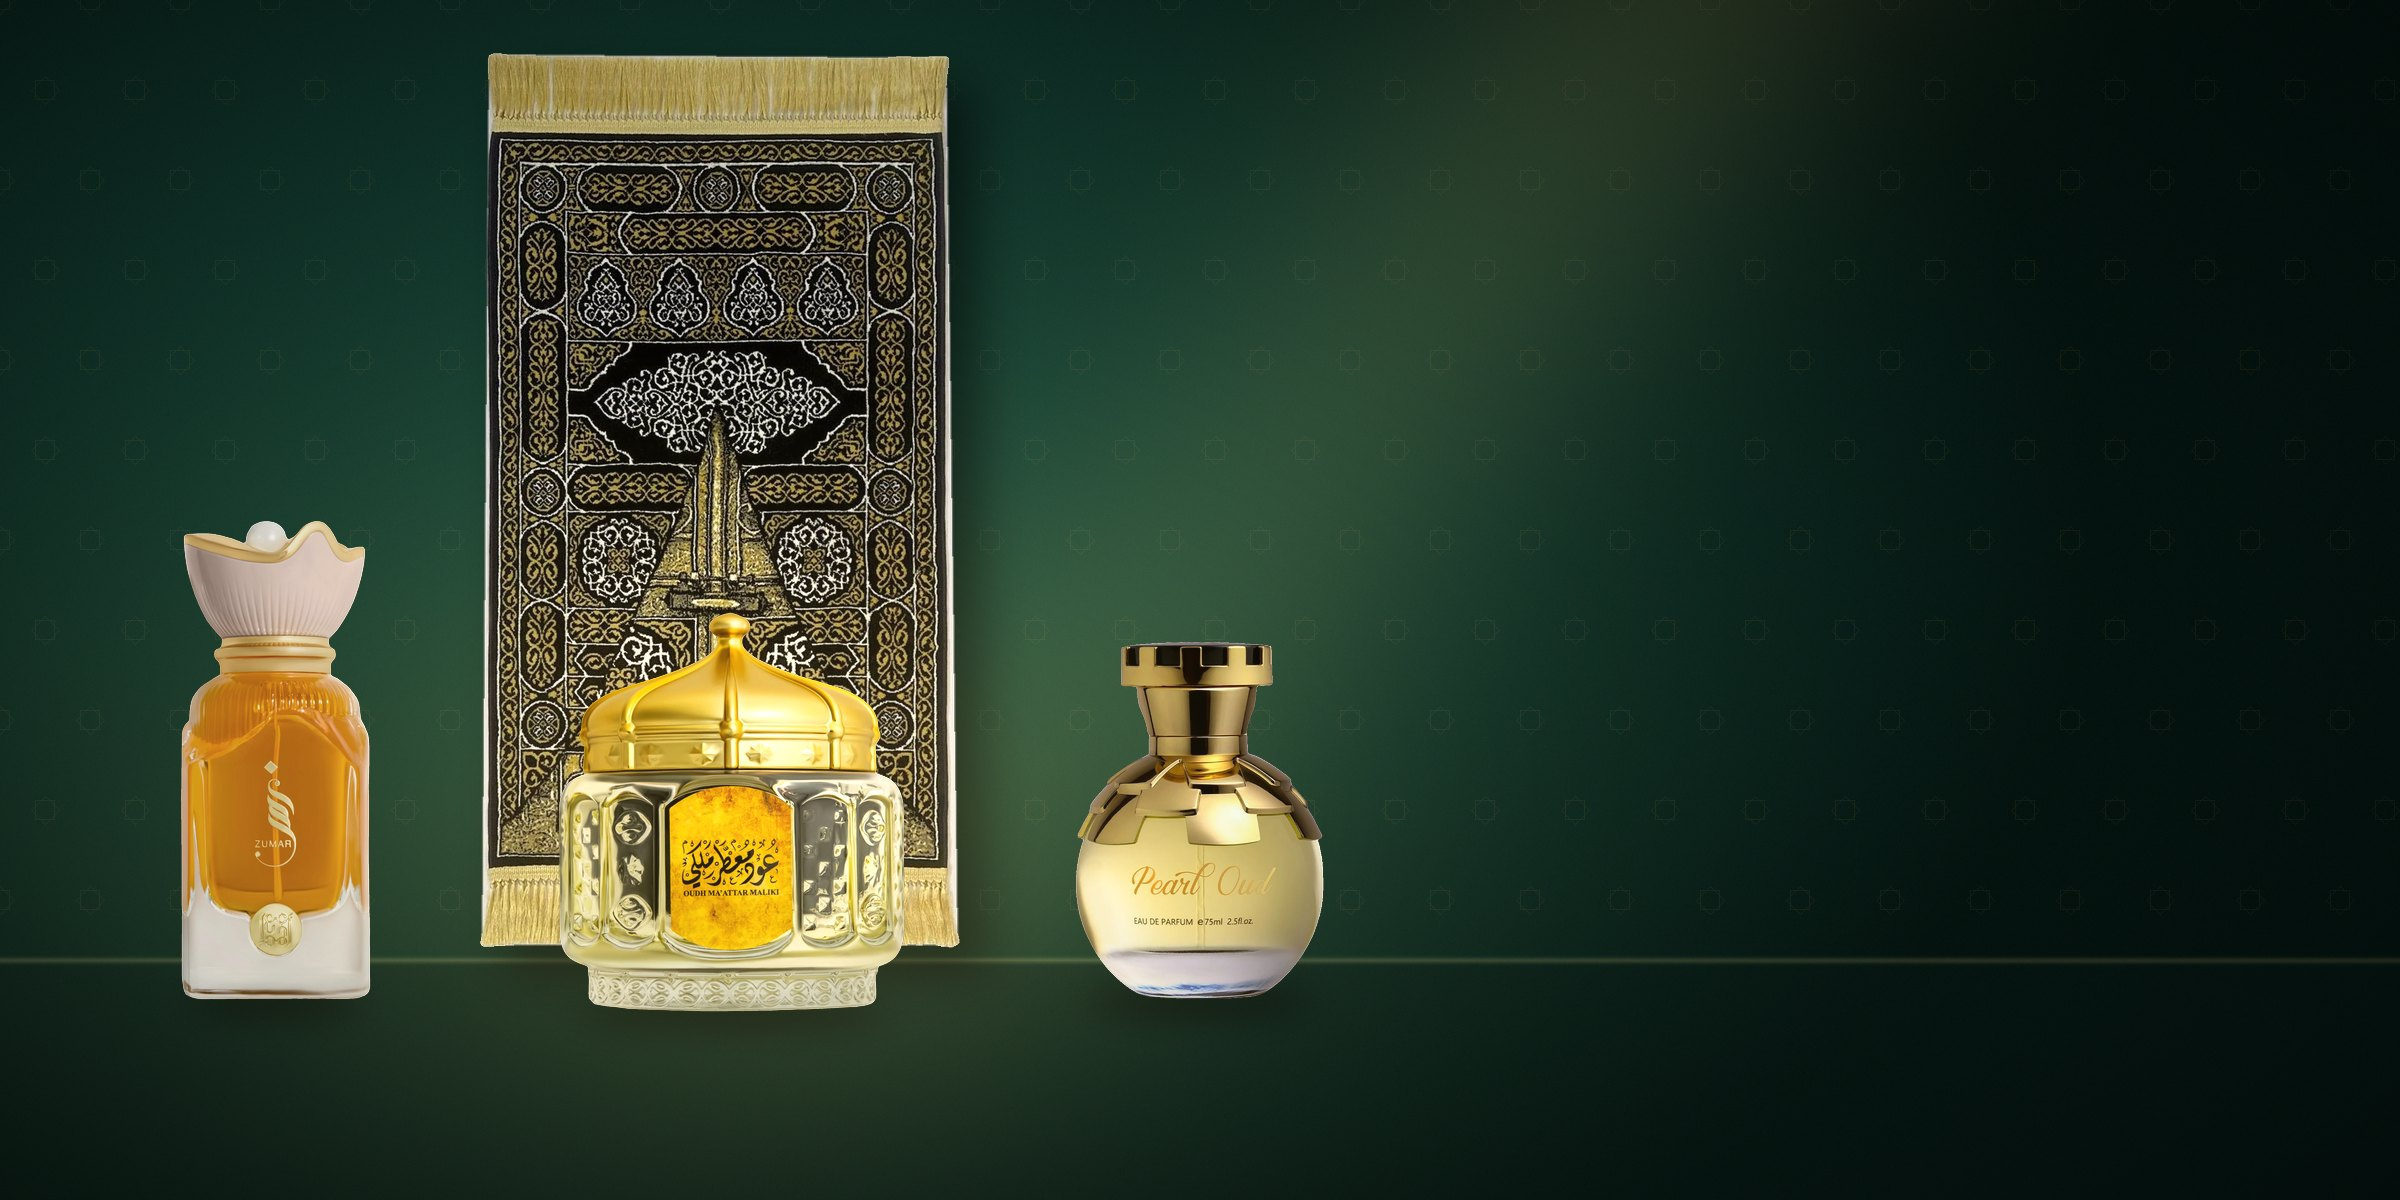
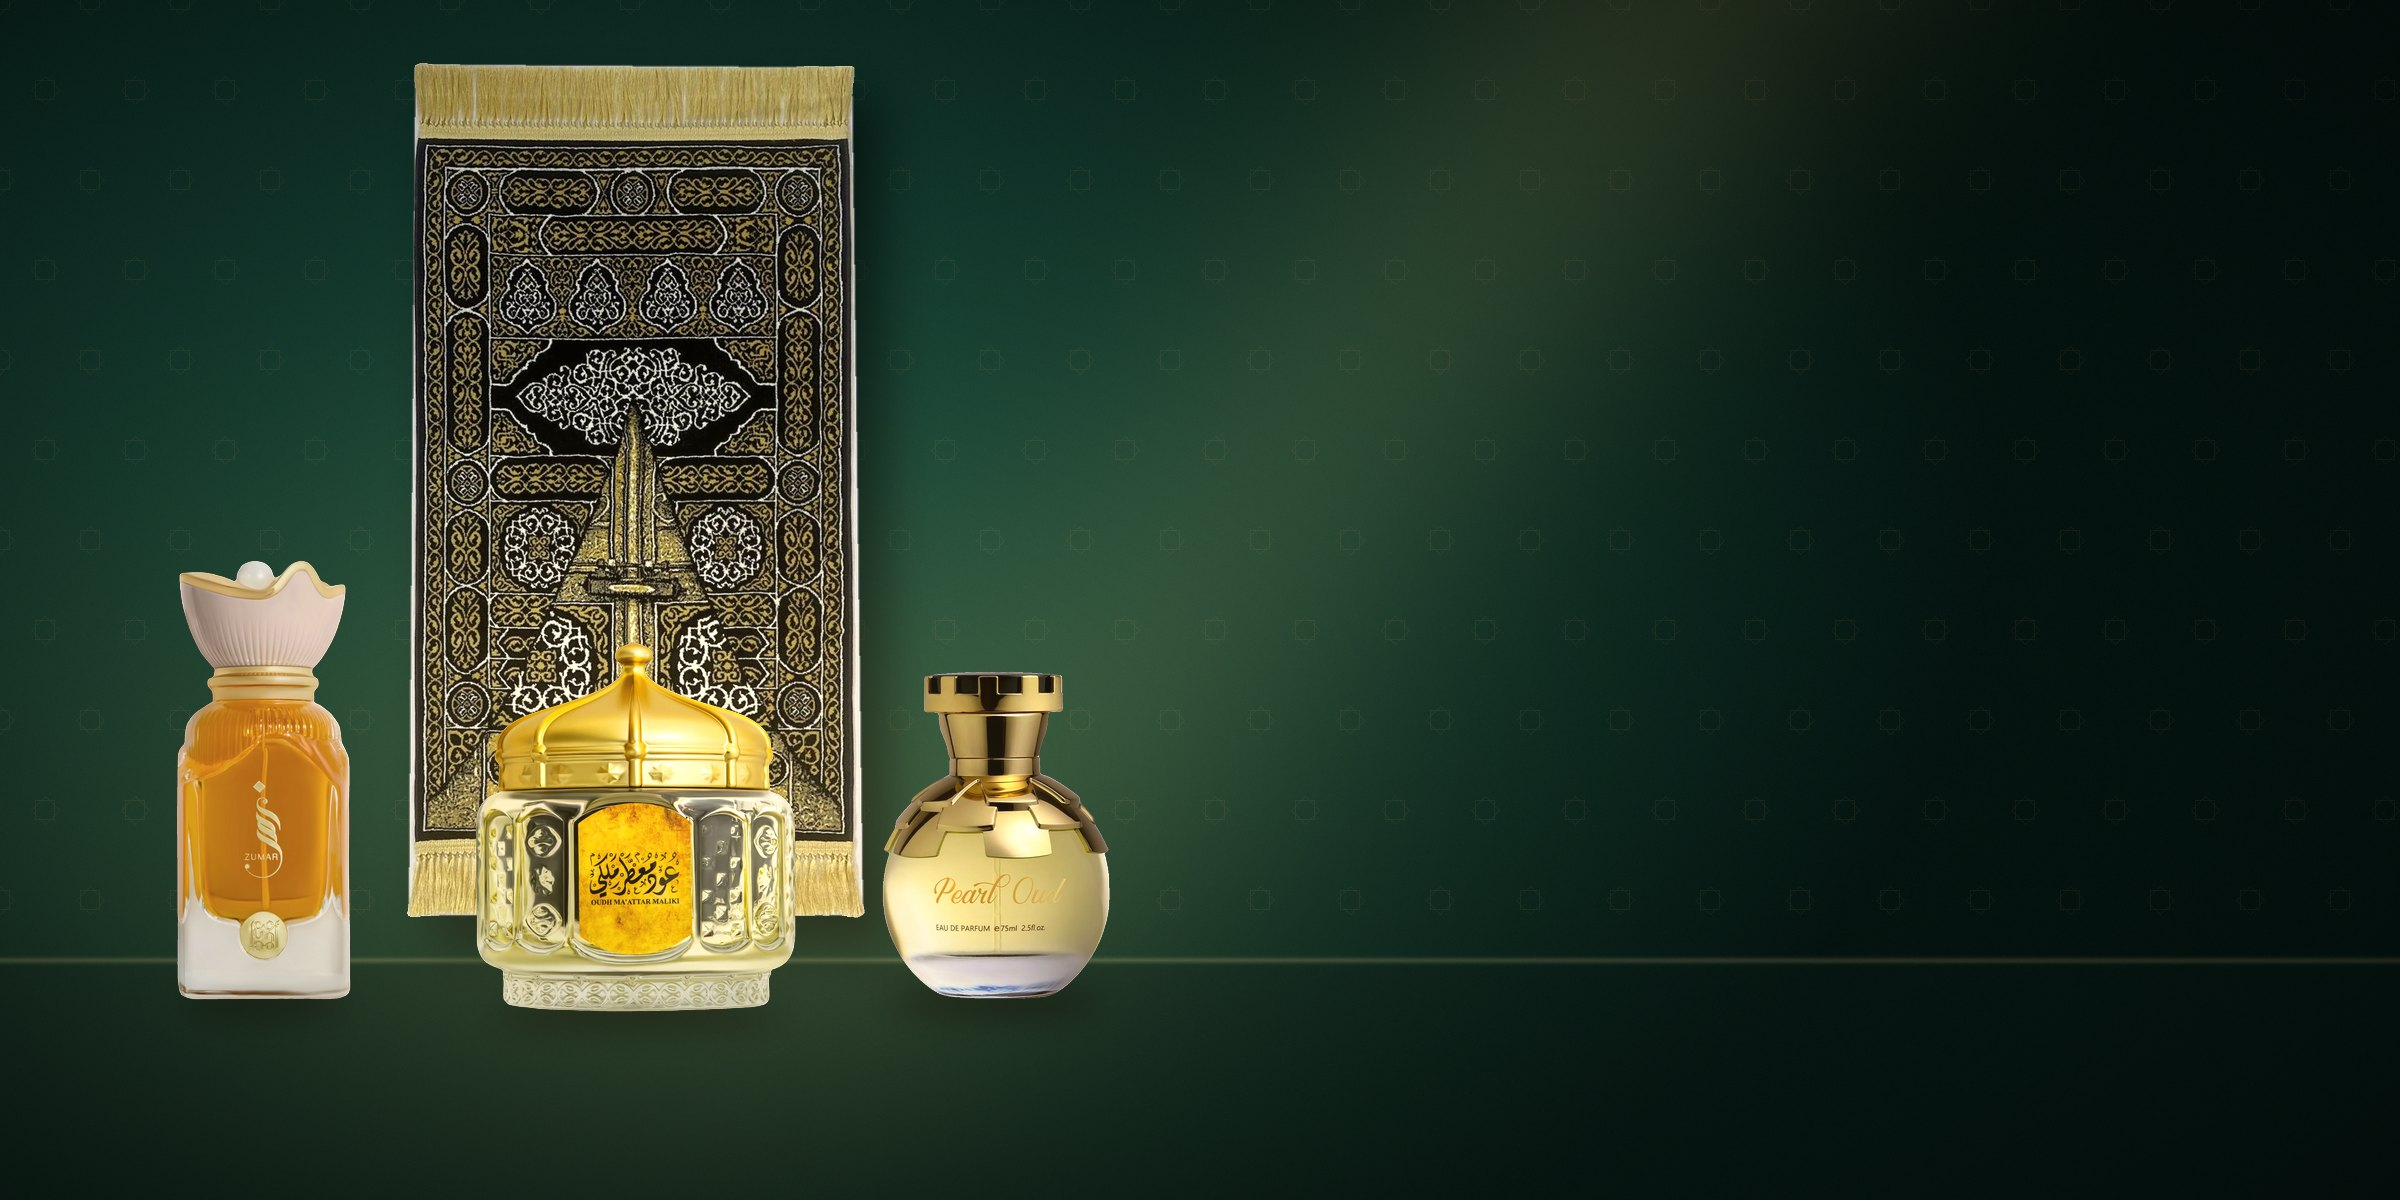
Hero: products further right so the headline and buttons stay clear; FAQ answer describes the marketplace
Claude-Session: https://claude.ai/code/session_01Fn3RxxeERW6SdmNKzfKFSz

Changed region(s): [[0.0625, 0.0308, 0.5625, 0.8633]]

diff --git a/src/lib/i18n.tsx b/src/lib/i18n.tsx
@@ -446,7 +446,7 @@ const en = {
   pfaq5q: 'Who prepares the order?',
   pfaq5a: 'Every order is prepared and packed by Al Mukarramah in Madinah.',
   hfaq1q: 'What does Al Mukarramah sell?',
-  hfaq1a: 'Premium Islamic gifts prepared in Madinah: prayer mats and woven prayer rugs inspired by the Haramain, matching gift sets, Madinah dates and keepsakes, and Ahmed Al Maghribi perfumes and oud oils as an authorised reseller.',
+  hfaq1a: 'Al Mukarramah is a curated marketplace of premium products for the Muslim home. Today it offers prayer mats and woven prayer rugs inspired by the Haramain, matching gift sets, Madinah dates and keepsakes, and Ahmed Al Maghribi perfumes and oud oils as an authorised reseller. Every product is approved by our team, and makers of premium products can apply to sell.',
   hfaq2q: 'Where do you deliver?',
   hfaq2a: 'To hotels in Madinah and Makkah during your stay, to homes and offices across Saudi Arabia, and internationally.',
   hfaq3q: 'How do I pay?',
@@ -889,7 +889,7 @@ const ar: typeof en = {
   pfaq5q: 'من يجهّز الطلب؟',
   pfaq5a: 'تُجهِّز المكرمة كل طلب وتغلّفه في المدينة المنورة.',
   hfaq1q: 'ماذا تبيع المكرمة؟',
-  hfaq1a: 'هدايا إسلامية راقية تُجهَّز في المدينة المنورة: سجادات صلاة وسجادات منسوجة مستوحاة من الحرمين، وأطقم هدايا، وتمور المدينة، وتذكارات، إضافة إلى عطور ودهن عود أحمد المغربي بصفتنا موزعًا معتمدًا.',
+  hfaq1a: 'المكرمة سوق مختار لمنتجات راقية للبيت المسلم. يضم اليوم سجادات صلاة وسجادات منسوجة مستوحاة من الحرمين، وأطقم هدايا، وتمور المدينة، وتذكارات، إضافة إلى عطور ودهن عود أحمد المغربي بصفتنا موزعًا معتمدًا. يعتمد فريقنا كل منتج، ويمكن للصنّاع أصحاب المنتجات الراقية التقدّم للبيع.',
   hfaq2q: 'إلى أين توصلون؟',
   hfaq2a: 'إلى الفنادق في المدينة ومكة خلال إقامتك، وإلى المنازل والمكاتب في جميع أنحاء السعودية، وإلى خارجها.',
   hfaq3q: 'كيف أدفع؟',

diff --git a/scripts/hero_still.py b/scripts/hero_still.py
@@ -15,11 +15,11 @@ CUT, OUT = sys.argv[1].rstrip("/") + "/products/", sys.argv[2]
 RTL = len(sys.argv) > 3 and sys.argv[3] == "rtl"
 W, H = 2400, 1200
 LEDGE = int(H * 0.80)
-WALL = [("kaaba-door-prayer-mat-1.webp", 900, 0.70, 50)]  # name, height, centre x (share of width), top
+WALL = [("kaaba-door-prayer-mat-1.webp", 860, 0.735, 60)]  # name, height, centre x (share of width), top
 LEDGE_ITEMS = [  # name, height, centre x, drop below the ledge line
-    ("aam/pearl-oud-75-ml-1.webp", 360, 0.50, 40),
-    ("aam/oud-maattar-maliki-3-tola-1.webp", 400, 0.695, 52),
-    ("aam/zumar-60-ml-1.webp", 480, 0.885, 40),
+    ("aam/pearl-oud-75-ml-1.webp", 330, 0.585, 40),
+    ("aam/oud-maattar-maliki-3-tola-1.webp", 370, 0.735, 52),
+    ("aam/zumar-60-ml-1.webp", 440, 0.89, 40),
 ]
 
 y, x = np.mgrid[0:H, 0:W].astype(float)
@@ -27,7 +27,7 @@ if RTL:
     x = W - 1 - x  # mirror the room and the light; products are placed at mirrored positions below
     WALL = [(n, h, 1 - cx, top) for n, h, cx, top in WALL]
     LEDGE_ITEMS = [(n, h, 1 - cx, dr) for n, h, cx, dr in LEDGE_ITEMS]
-d = np.sqrt(((x - W * 0.68) / (W * 0.55)) ** 2 + ((y - H * 0.42) / (H * 0.75)) ** 2)
+d = np.sqrt(((x - W * 0.72) / (W * 0.55)) ** 2 + ((y - H * 0.42) / (H * 0.75)) ** 2)
 t = np.clip(d, 0, 1) ** 1.3
 img = np.array((24, 72, 58), float) * (1 - t[..., None]) + np.array((6, 24, 19), float) * t[..., None]
 beam = np.exp(-(((x - W * 0.30) * 0.80 - y * 0.62) / (W * 0.09)) ** 2) * np.clip(1 - y / H * 0.9, 0, 1)
@@ -84,7 +84,7 @@ for name, h, cx, drop in LEDGE_ITEMS:
     bg = Image.alpha_composite(bg, layer(it, (x0, y0)))
 
 arr = np.array(bg.convert("RGB")).astype(float)
-arr += np.exp(-(((x - W * 0.70) / (W * 0.25)) ** 2 + ((y - H * 0.70) / (H * 0.30)) ** 2))[..., None] * np.array((40, 32, 14))
+arr += np.exp(-(((x - W * 0.74) / (W * 0.25)) ** 2 + ((y - H * 0.70) / (H * 0.30)) ** 2))[..., None] * np.array((40, 32, 14))
 arr *= np.clip(1 - 0.45 * (np.sqrt(((x - W * 0.6) / (W * 0.75)) ** 2 + ((y - H * 0.5) / (H * 0.8)) ** 2)) ** 2, 0.4, 1)[..., None]
 Image.fromarray(np.clip(arr, 0, 255).astype(np.uint8)).save(OUT, quality=86, optimize=True, progressive=True)
 print("hero written", OUT)
